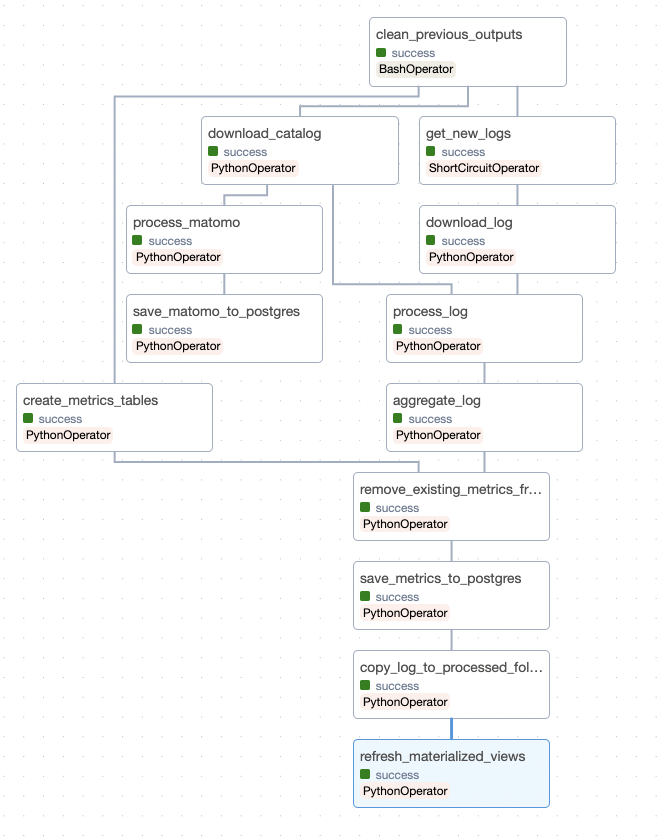
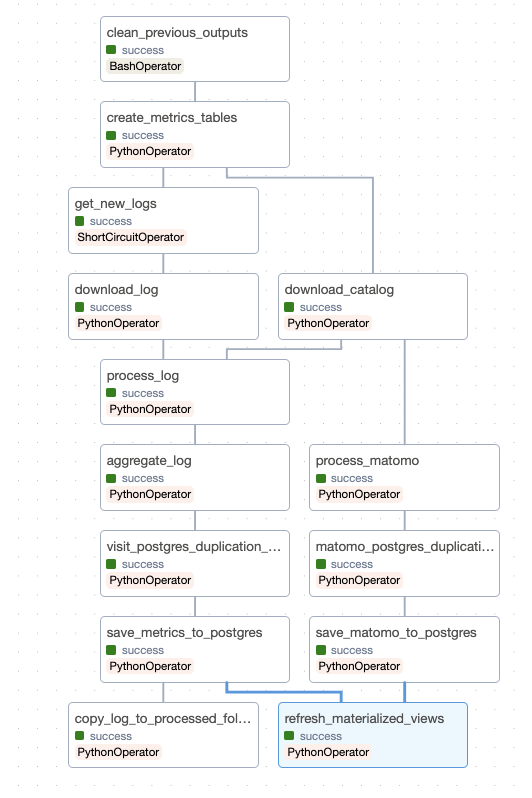
feat(dgv.metrics): add matomo duplication safety
+ allow the pgtool execute_sql_file() method to replace some text before executing the SQL query
+ reorganise the DAG so the Matomo part of the DAG runs more logically

diff --git a/dgv/metrics/dag.py b/dgv/metrics/dag.py
@@ -3,15 +3,17 @@ from datetime import datetime, timedelta
 from airflow.models import DAG
 from airflow.operators.bash import BashOperator
 from airflow.operators.python import PythonOperator, ShortCircuitOperator
+from airflow.utils.trigger_rule import TriggerRule
 
 from datagouvfr_data_pipelines.dgv.metrics.task import (
     create_metrics_tables,
     get_new_logs,
     download_catalog,
     download_log,
+    matomo_postgres_duplication_safety,
+    visit_postgres_duplication_safety,
     process_log,
     aggregate_log,
-    remove_existing_metrics_from_postgres,
     save_metrics_to_postgres,
     copy_logs_to_processed_folder,
     refresh_materialized_views,
@@ -50,6 +52,7 @@ with DAG(
     get_new_logs = ShortCircuitOperator(
         task_id="get_new_logs",
         python_callable=get_new_logs,
+        ignore_downstream_trigger_rules=False,
     )
 
     download_catalog = PythonOperator(
@@ -72,9 +75,9 @@ with DAG(
         python_callable=aggregate_log,
     )
 
-    remove_existing_metrics_from_postgres = PythonOperator(
-        task_id="remove_existing_metrics_from_postgres",
-        python_callable=remove_existing_metrics_from_postgres,
+    visit_postgres_duplication_safety_task = PythonOperator(
+        task_id="visit_postgres_duplication_safety",
+        python_callable=visit_postgres_duplication_safety,
     )
 
     save_metrics_to_postgres = PythonOperator(
@@ -85,6 +88,11 @@ with DAG(
     process_matomo = PythonOperator(
         task_id="process_matomo",
         python_callable=process_matomo,
+    )
+
+    matomo_postgres_duplication_safety_task = PythonOperator(
+        task_id="matomo_postgres_duplication_safety",
+        python_callable=matomo_postgres_duplication_safety,
     )
 
     save_matomo_to_postgres = PythonOperator(
@@ -100,21 +108,24 @@ with DAG(
     refresh_materialized_views = PythonOperator(
         task_id="refresh_materialized_views",
         python_callable=refresh_materialized_views,
+        trigger_rule=TriggerRule.NONE_FAILED_MIN_ONE_SUCCESS,
     )
 
     create_metrics_tables.set_upstream(clean_previous_outputs)
-    download_catalog.set_upstream(clean_previous_outputs)
-    get_new_logs.set_upstream(clean_previous_outputs)
+    download_catalog.set_upstream(create_metrics_tables)
+    get_new_logs.set_upstream(create_metrics_tables)
     download_log.set_upstream(get_new_logs)
     process_log.set_upstream(download_log)
     process_log.set_upstream(download_catalog)
     aggregate_log.set_upstream(process_log)
-    remove_existing_metrics_from_postgres.set_upstream(create_metrics_tables)
-    remove_existing_metrics_from_postgres.set_upstream(aggregate_log)
-    save_metrics_to_postgres.set_upstream(remove_existing_metrics_from_postgres)
+    visit_postgres_duplication_safety_task.set_upstream(aggregate_log)
+    save_metrics_to_postgres.set_upstream(visit_postgres_duplication_safety_task)
     copy_logs_to_processed_folder.set_upstream(save_metrics_to_postgres)
-    refresh_materialized_views.set_upstream(copy_logs_to_processed_folder)
 
     # see if we keep matomo in same dag
     process_matomo.set_upstream(download_catalog)
-    save_matomo_to_postgres.set_upstream(process_matomo)
+    matomo_postgres_duplication_safety_task.set_upstream(process_matomo)
+    save_matomo_to_postgres.set_upstream(matomo_postgres_duplication_safety_task)
+
+    refresh_materialized_views.set_upstream(save_metrics_to_postgres)
+    refresh_materialized_views.set_upstream(save_matomo_to_postgres)

diff --git a/dgv/metrics/task.py b/dgv/metrics/task.py
@@ -218,17 +218,24 @@ def aggregate_log(ti) -> None:
     ti.xcom_push(key="dates_processed", value=dates_processed)
 
 
-def remove_existing_metrics_from_postgres(ti) -> None:
+def visit_postgres_duplication_safety(ti) -> None:
     """
     In case we have to process some logs again, this task is making
     sure we don't end up duplicating the metrics on postgres.
     """
     processed_dates = ti.xcom_pull(key="dates_processed", task_ids="aggregate_log")
     for log_date in processed_dates:
-        logging.info(f"Deleting existing metrics from the {log_date} if they exists.")
-        with open(f"{config.code_folder_full_path}/sql/remove_metrics.sql") as sql:
-            sql_query = sql.read().replace("%%date%%", log_date)
-            pgtool.execute_query(sql_query)
+        logging.info(
+            f"Deleting existing visit metrics from the {log_date} if they exists."
+        )
+        pgtool.execute_sql_file(
+            File(
+                source_name="remove_visit_metrics.sql",
+                source_path=f"{config.code_folder_full_path}/sql/",
+                column_order=None,
+            ),
+            replacements={"%%date%%": log_date},
+        )
 
 
 def save_metrics_to_postgres() -> None:
@@ -239,9 +246,7 @@ def save_metrics_to_postgres() -> None:
                     file=File(
                         source_path="/".join(lf.split("/")[:-1]) + "/",
                         source_name=lf.split("/")[-1],
-                        column_order="("
-                        + ", ".join(obj_config.output_columns)
-                        + ")",
+                        column_order="(" + ", ".join(obj_config.output_columns) + ")",
                     ),
                     table=f"{config.database_schema}.visits_{obj_config.type}",
                     has_header=False,
@@ -265,7 +270,7 @@ def refresh_materialized_views() -> None:
     )
 
 
-def process_matomo() -> None:
+def process_matomo(ti) -> None:
     """
     Fetch matomo metrics for external links for reuses and sum these by orga
     """
@@ -315,7 +320,28 @@ def process_matomo() -> None:
         index=False,
         header=False,
     )
+    ti.xcom_push(key="dates_processed", value=[yesterday])
     logging.info("Matomo organisations outlinks processed!")
+
+
+def matomo_postgres_duplication_safety(ti) -> None:
+    """
+    In case we have to process some logs again, this task is making
+    sure we don't end up duplicating the matomo metrics on postgres.
+    """
+    processed_dates = ti.xcom_pull(key="dates_processed", task_ids="process_matomo")
+    for log_date in processed_dates:
+        logging.info(
+            f"Deleting existing matomo metrics from the {log_date} if they exists."
+        )
+        pgtool.execute_sql_file(
+            File(
+                source_name="remove_matomo_metrics.sql",
+                source_path=f"{config.code_folder_full_path}/sql/",
+                column_order=None,
+            ),
+            replacements={"%%date%%": log_date},
+        )
 
 
 def save_matomo_to_postgres() -> None:

diff --git a/utils/postgres.py b/utils/postgres.py
@@ -38,15 +38,22 @@ class PostgresTool:
             self.conn.commit()
         return data
 
-    def execute_sql_file(self, file: File) -> list[dict]:
+    def execute_sql_file(
+        self,
+        file: File,
+        replacements: dict[str, str] = {},
+    ) -> list[dict]:
         self.raise_if_not_file(file)
         with self.conn.cursor() as cur:
-            cur.execute(
-                open(os.path.join(file["source_path"], file["source_name"]), "r").read()
-            )
+            sql_query = open(
+                os.path.join(file["source_path"], file["source_name"]), "r"
+            ).read()
+            for old, new in replacements.items():
+                sql_query = sql_query.replace(old, new)
+            cur.execute(sql_query)
             data = self._return_sql_results(cur)
             self.conn.commit()
-            return data
+        return data
 
     def copy_file(self, file: File, table: str, has_header: bool) -> list[dict]:
         self.raise_if_not_file(file)

diff --git a/dgv/metrics/README.md b/dgv/metrics/README.md
@@ -14,3 +14,11 @@
 ## DAG
 
 ![Graphe du DAG](dag.png)
+
+## First run
+
+Execute the following queries against the database:
+```sql
+CREATE SCHEMA IF NOT EXISTS metric;
+CREATE DATABASE metric;
+```
